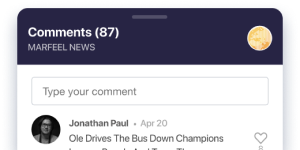
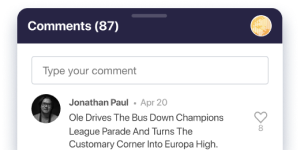
Apply headerLite in comments and top articles

diff --git a/experiences/comments/comments.html b/experiences/comments/comments.html
@@ -98,32 +98,25 @@
 			width: calc(100% - 30px);
 		}
 
-		.mrf-header__wrapper {
+		.mrf-headerLite__wrapper {
 			background: #282346;
 			display: flex;
 			justify-content: space-between;
 			align-items: center;
-			padding: 10px 15px 15px;
+			padding: 0 15px 8px;
+			height: 40px;
 			box-sizing: border-box;
 		}
 
-		.mrf-header__main {
-			display: flex;
-			flex-direction: column;
-			color: #FFF;
-		}
-
-		.mrf-header__title {
-			font-size: 1em;
+		.mrf-headerLite__title {
+			color: white;
+			text-align: left;
 			font-weight: 700;
-			margin: 0 0 3px;
-		}
-
-		.mrf-header__subtitle {
-			text-transform: uppercase;
-			font-size: .7em;
-			font-weight: 500;
-			opacity: .7;
+			font-size: 18px;
+			white-space: nowrap;
+			text-overflow: ellipsis;
+			overflow: hidden;
+			flex: 0 70%;
 		}
 
 		.mrf-comments-item__wrapper {
@@ -181,20 +174,18 @@
 </head>
 
 <body>
-	<header class="mrf-header__wrapper">
-		<div class="mrf-header__main">
-			<h1 class="mrf-header__title">Comments (9)</h1>
-			<span class="mrf-header__subtitle">Marfeel news</span>
+	<header>
+		<div class="mrf-headerLite__wrapper">
+			<span class="mrf-headerLite__title">Comments (87)</span>
+			<img height="28" width="28" src="https://${CURRENT_HOSTNAME}/assets/experiences/dailynews-icon.png">
 		</div>
-		<img height="34" width="34" src="https://${CURRENT_HOSTNAME}/assets/experiences/dailynews-icon.png">
 	</header>
 	<div>
 		<input type="text" class="mrf-input" placeholder="Type your comment" />
 		<article class="mrf-article mrf-comments-item">
 			<a href="#" class="mrf-comments-item__wrapper">
 				<div class="mrf-comments__image">
-					<img
-						src="https://images.unsplash.com/photo-1599566150163-29194dcaad36?auto=format&crop=faces&w=40&h=40&q=80&fit=crop">
+					<img src="https://${CURRENT_HOSTNAME}/assets/images/avatars/5.jpeg" />
 				</div>
 				<div class="mrf-comments__content">
 					<address class="mrf-comments__author">
@@ -217,8 +208,7 @@
 		<article class="mrf-article mrf-comments-item">
 			<a href="#" class="mrf-comments-item__wrapper">
 				<div class="mrf-comments__image">
-					<img
-						src="https://images.unsplash.com/photo-1607746882042-944635dfe10e?auto=format&crop=faces&w=40&h=40&q=80&fit=crop">
+					<img src="https://${CURRENT_HOSTNAME}/assets/images/avatars/6.jpeg" />
 				</div>
 				<div class="mrf-comments__content">
 					<address class="mrf-comments__author">
@@ -241,8 +231,7 @@
 		<article class="mrf-article mrf-comments-item">
 			<a href="#" class="mrf-comments-item__wrapper">
 				<div class="mrf-comments__image">
-					<img
-						src="https://${CURRENT_HOSTNAME}/assets/images/avatars/2.jpeg">
+					<img src="https://${CURRENT_HOSTNAME}/assets/images/avatars/2.jpeg" />
 				</div>
 				<div class="mrf-comments__content">
 					<address class="mrf-comments__author">
@@ -265,8 +254,7 @@
 		<article class="mrf-article mrf-comments-item">
 			<a href="#" class="mrf-comments-item__wrapper">
 				<div class="mrf-comments__image">
-					<img
-						src="https://${CURRENT_HOSTNAME}/assets/images/avatars/3.jpeg">
+					<img src="https://${CURRENT_HOSTNAME}/assets/images/avatars/3.jpeg" />
 				</div>
 				<div class="mrf-comments__content">
 					<address class="mrf-comments__author">
@@ -289,8 +277,7 @@
 		<article class="mrf-article mrf-comments-item">
 			<a href="#" class="mrf-comments-item__wrapper">
 				<div class="mrf-comments__image">
-					<img
-						src="https://${CURRENT_HOSTNAME}/assets/images/avatars/5.jpeg">
+					<img src="https://${CURRENT_HOSTNAME}/assets/images/avatars/5.jpeg" />
 				</div>
 				<div class="mrf-comments__content">
 					<address class="mrf-comments__author">
@@ -313,8 +300,7 @@
 		<article class="mrf-article mrf-comments-item">
 			<a href="#" class="mrf-comments-item__wrapper">
 				<div class="mrf-comments__image">
-					<img
-						src="https://${CURRENT_HOSTNAME}/assets/images/avatars/6.jpeg">
+					<img src="https://${CURRENT_HOSTNAME}/assets/images/avatars/6.jpeg" />
 				</div>
 				<div class="mrf-comments__content">
 					<address class="mrf-comments__author">
@@ -337,8 +323,7 @@
 		<article class="mrf-article mrf-comments-item">
 			<a href="#" class="mrf-comments-item__wrapper">
 				<div class="mrf-comments__image">
-					<img
-						src="https://${CURRENT_HOSTNAME}/assets/images/avatars/1.jpeg">
+					<img src="https://${CURRENT_HOSTNAME}/assets/images/avatars/1.jpeg" />
 				</div>
 				<div class="mrf-comments__content">
 					<address class="mrf-comments__author">
@@ -361,8 +346,7 @@
 		<article class="mrf-article mrf-comments-item">
 			<a href="#" class="mrf-comments-item__wrapper">
 				<div class="mrf-comments__image">
-					<img
-						src="https://${CURRENT_HOSTNAME}/assets/images/avatars/4.jpeg">
+					<img src="https://${CURRENT_HOSTNAME}/assets/images/avatars/4.jpeg" />
 				</div>
 				<div class="mrf-comments__content">
 					<address class="mrf-comments__author">
@@ -385,8 +369,7 @@
 		<article class="mrf-article mrf-comments-item">
 			<a href="#" class="mrf-comments-item__wrapper">
 				<div class="mrf-comments__image">
-					<img
-						src="https://${CURRENT_HOSTNAME}/assets/images/avatars/1.jpeg">
+					<img src="https://${CURRENT_HOSTNAME}/assets/images/avatars/1.jpeg" />
 				</div>
 				<div class="mrf-comments__content">
 					<address class="mrf-comments__author">

diff --git a/experiences/top_articles/top_articles.html b/experiences/top_articles/top_articles.html
@@ -88,32 +88,25 @@
 			text-decoration: none;
 		}
 
-		.mrf-header__wrapper {
+		.mrf-headerLite__wrapper {
 			background: #282346;
 			display: flex;
 			justify-content: space-between;
 			align-items: center;
-			padding: 10px 15px 15px;
+			padding: 0 15px 8px;
+			height: 40px;
 			box-sizing: border-box;
 		}
 
-		.mrf-header__main {
-			display: flex;
-			flex-direction: column;
-			color: #FFF;
-		}
-
-		.mrf-header__title {
-			font-size: 1em;
+		.mrf-headerLite__title {
+			color: white;
+			text-align: left;
 			font-weight: 700;
-			margin: 0 0 3px;
-		}
-
-		.mrf-header__subtitle {
-			text-transform: uppercase;
-			font-size: .7em;
-			font-weight: 500;
-			opacity: .7;
+			font-size: 18px;
+			white-space: nowrap;
+			text-overflow: ellipsis;
+			overflow: hidden;
+			flex: 0 70%;
 		}
 
 		.mrf-ranking__item--wrapper {
@@ -140,12 +133,11 @@
 </head>
 
 <body>
-	<header class="mrf-header__wrapper">
-		<div class="mrf-header__main">
-			<h1 class="mrf-header__title">Top articles</h1>
-			<span class="mrf-header__subtitle">Daily news</span>
+	<header>
+		<div class="mrf-headerLite__wrapper">
+			<span class="mrf-headerLite__title">Top articles</span>
+			<img height="28" width="28" src="https://${CURRENT_HOSTNAME}/assets/experiences/dailynews-icon.png">
 		</div>
-		<img height="34" width="34" src="https://${CURRENT_HOSTNAME}/assets/experiences/dailynews-icon.png">
 	</header>
 	<div>
 		<article class="mrf-article mrf-ranking__item">
